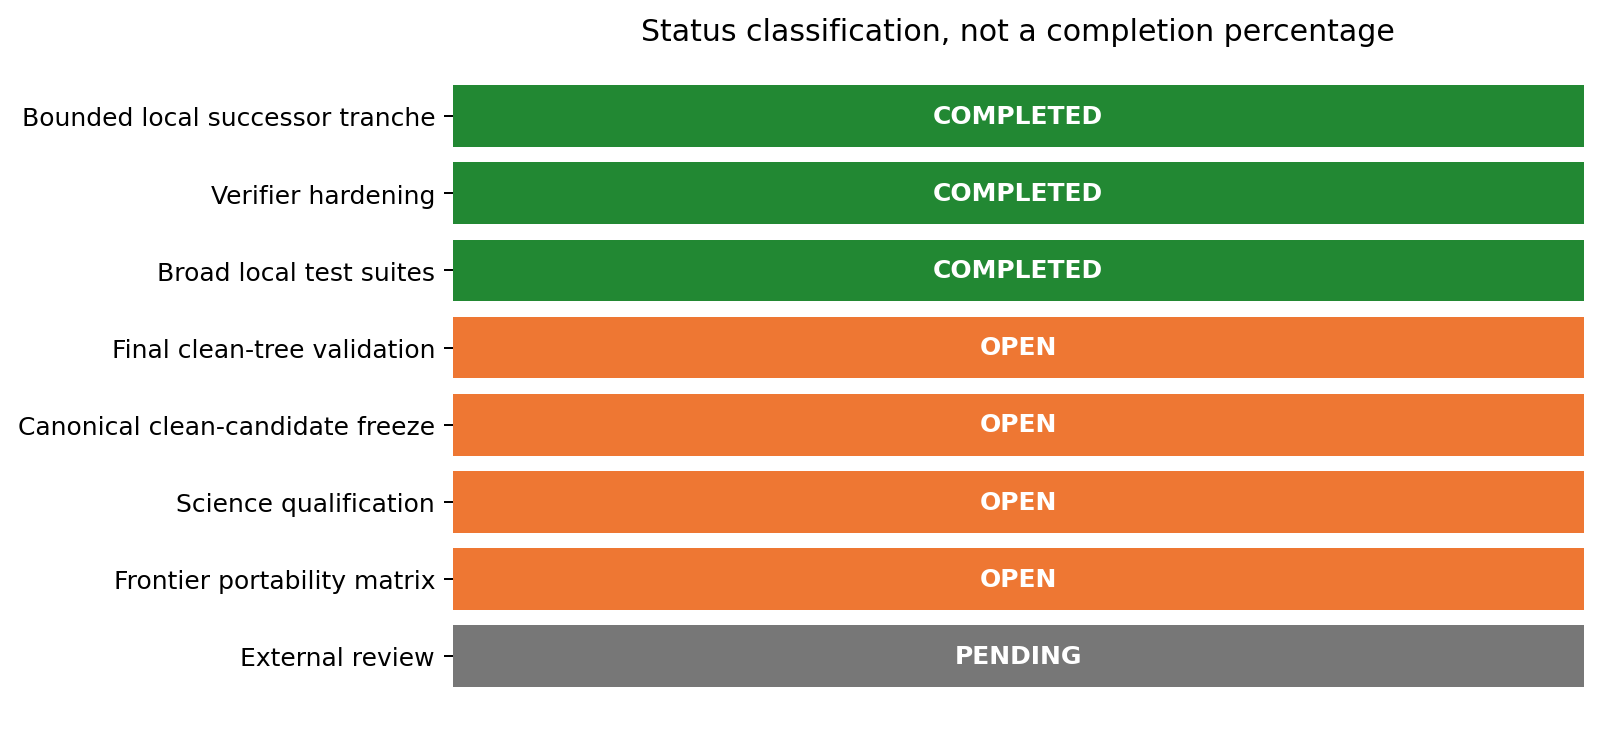
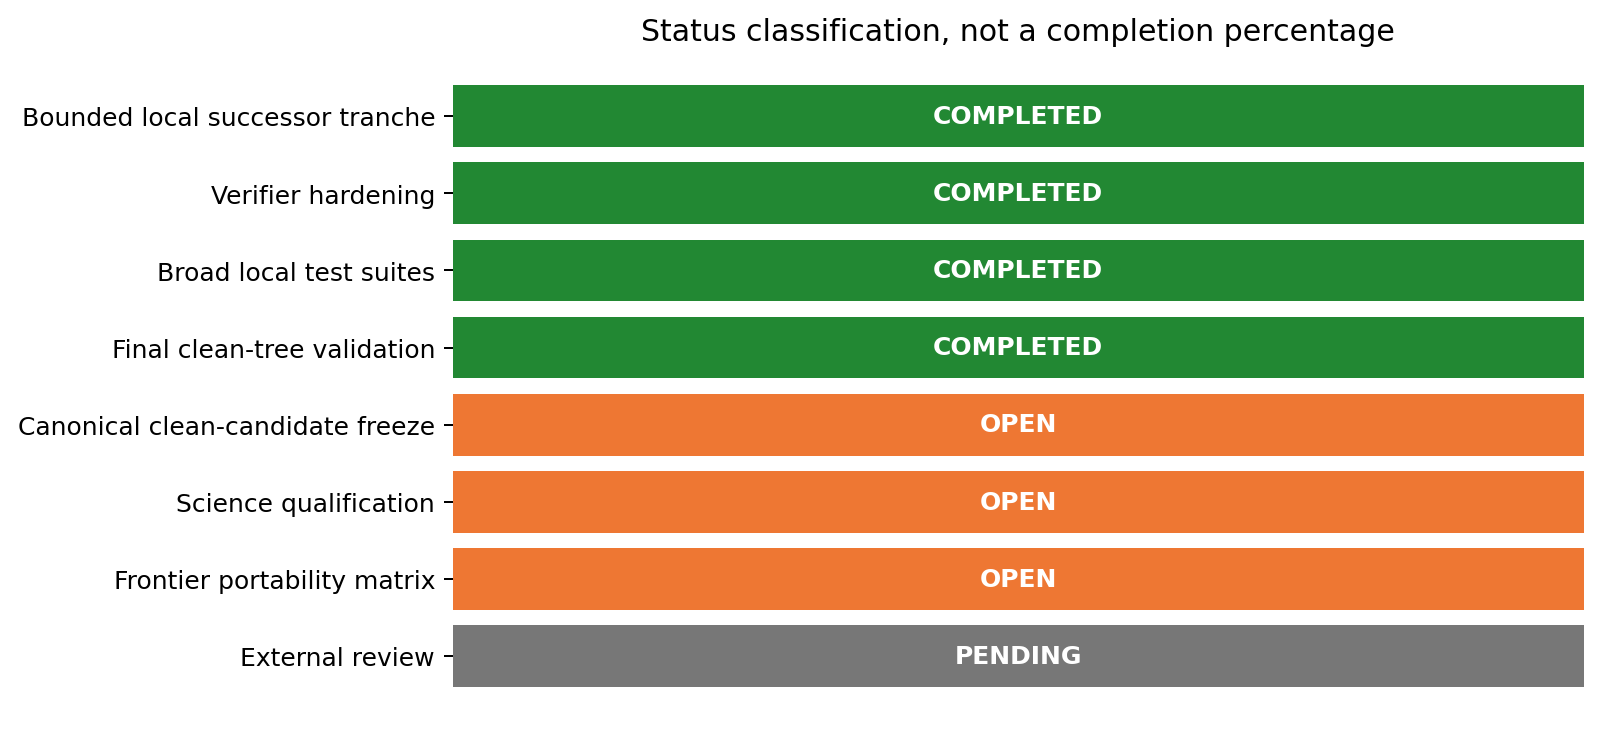
docs(pic): make phase0 validation receipt reproducible

Changed region(s): [[0.2811, 0.419, 0.9994, 0.5388]]

diff --git a/tst/publication/generate_pic_status_update_figures.py b/tst/publication/generate_pic_status_update_figures.py
@@ -315,8 +315,8 @@ def readiness_gate_summary() -> None:
         "Frontier portability matrix",
         "External review",
     ]
-    status = ["completed", "completed", "completed", "open", "open", "open", "open", "pending"]
-    colors = [GREEN, GREEN, GREEN, ORANGE, ORANGE, ORANGE, ORANGE, GRAY]
+    status = ["completed", "completed", "completed", "completed", "open", "open", "open", "pending"]
+    colors = [GREEN, GREEN, GREEN, GREEN, ORANGE, ORANGE, ORANGE, GRAY]
     fig, ax = plt.subplots(figsize=(9, 4.2))
     y = np.arange(len(labels))
     ax.barh(y, np.ones(len(labels)), color=colors)

diff --git a/STATUS_UPDATE.md b/STATUS_UPDATE.md
@@ -4,7 +4,7 @@
 | --- | --- |
 | Date | 2026-05-31 |
 | Repository | AthenaK MHD-PIC worktree at `/ccs/home/dfielding/athenak-pic` |
-| Branch and commit | `PIC` code-and-control snapshot `ec69dd5b6a16f7945d7531f33b3d6a13393243e2`; tracking `origin/PIC`; local branch is 111 commits ahead at that snapshot; this documentation reconciliation follows it |
+| Branch and commits | `PIC` code-and-control snapshot `ec69dd5b6a16f7945d7531f33b3d6a13393243e2` at 111 commits ahead of `origin/PIC`; audited documentation snapshot `717046d1f330a2ee88471669bfc6fc2edfd06f89` at 112 commits ahead; this scoped reproducibility refresh follows it |
 | Agent | Codex |
 | Governing plan | `tst/publication/PIC_PRODUCTION_READINESS_PLAN.md` |
 | Data analyzed | Frozen Q006, Q007, Q008 and Q011 local-readiness artifacts; retained read-only Q023 Bell source-local smoke; authoritative Frontier node-hour ledger |
@@ -53,13 +53,13 @@ The main change relative to the prior state is therefore not “the entire plan 
 
 ![Readiness gate summary](figures/status_update/readiness_gate_summary.png)
 
-*Figure 5. Status classification for the current tranche. The bounded local successor tranche, verifier hardening and broad local test suites are complete. The final clean-tree validation matrix, canonical schema-v4 clean-candidate freeze, science qualification and the broader Frontier portability matrix remain open; external review remains pending. The bars are categorical labels, not completion percentages.*
+*Figure 5. Status classification for the current tranche. The bounded local successor tranche, verifier hardening, broad local test suites and final clean-tree validation matrix are complete. The canonical schema-v4 clean-candidate freeze, science qualification and the broader Frontier portability matrix remain open; external review remains pending. The bars are categorical labels, not completion percentages.*
 
 The strongest statements we can make are local ones: the bounded successors ran, their retained outputs were inventoried, and Q008 shows monotonic three-resolution residual reduction within the tested matrix. The final local test tranches also passed during this work session, although their broad counts are manually curated observations rather than a retained signed test receipt. The report generator itself re-validates the retained trees and mirrored accounting state, re-reads the frozen JSON products, and regenerates the figures.
 
 The largest remaining uncertainty is not a single bug. It is the unclosed transition from bounded local engineering evidence to physical and operational qualification: long-horizon paper campaigns, calibrated extension comparisons, MPI/GPU and multi-node checks, restart and filesystem failure drills on Frontier, scaling and memory measurements, Orion-retention disposition, and named external review.
 
-Source curation was committed through code-and-control snapshot `ec69dd5b6a16f7945d7531f33b3d6a13393243e2`. Independent audits first found a same-account substitution risk in the copied-snapshot handoff and then a topology-map race at the stable handoff boundary. The committed repair keeps verified topology in memory, compares the handed-off topology map back to the verified tree, exposes consumed regular files lazily through sealed Linux `memfd` descriptors, retains one open descriptor across multi-pass archive and ELF validation, and rejects unrelated sealed descriptors outside an active routed snapshot. Q006, Q007 and Q011 retained-artifact replays reproduce their archived results through those sealed members. The report generator applies the same anchored sealed-member rule to frozen JSON inputs and the legacy Q023 Bell payloads. The source-side transition policy now clears inherited schema-v3 science registrations and marks the schema-v4 clean-candidate freeze pending. The canonical schema-v4 source bundle and HIP/MPI executable freeze have not yet been created. The sensible next step is to complete the stable-boundary rereview and final clean validation matrix, install the paired successor control-plane generation, build the canonical HIP/MPI Release executable, and freeze the clean candidate before registering another Frontier slice. The Q006 residual pattern makes AMR/restart parity a priority after that freeze: bind its acceptance threshold before submission and use the slice to test whether decomposition or device execution changes the bounded carrier result. Large paper or extension campaigns should not begin until their campaign-specific registrations, tolerances and independent comparison inputs are frozen.
+Source curation was committed through code-and-control snapshot `ec69dd5b6a16f7945d7531f33b3d6a13393243e2`. Independent audits first found a same-account substitution risk in the copied-snapshot handoff and then a topology-map race at the stable handoff boundary. The committed repair keeps verified topology in memory, compares the handed-off topology map back to the verified tree, exposes consumed regular files lazily through sealed Linux `memfd` descriptors, retains one open descriptor across multi-pass archive and ELF validation, and rejects unrelated sealed descriptors outside an active routed snapshot. Q006, Q007 and Q011 retained-artifact replays reproduce their archived results through those sealed members. The report generator applies the same anchored sealed-member rule to frozen JSON inputs and the legacy Q023 Bell payloads. The source-side transition policy now clears inherited schema-v3 science registrations and marks the schema-v4 clean-candidate freeze pending. The clean-tree validation matrix passed, but the canonical schema-v4 source bundle and HIP/MPI executable freeze have not yet been created. The sensible next step is to complete the stable-boundary rereview, install the paired successor control-plane generation, build the canonical HIP/MPI Release executable, and freeze the clean candidate before registering another Frontier slice. The Q006 residual pattern makes AMR/restart parity a priority after that freeze: bind its acceptance threshold before submission and use the slice to test whether decomposition or device execution changes the bounded carrier result. Large paper or extension campaigns should not begin until their campaign-specific registrations, tolerances and independent comparison inputs are frozen.
 
 # Tier 1: How the analysis works
 
@@ -206,7 +206,7 @@ The current pre-freeze local validation tranche combined broad test suites, focu
 | Frontier control-plane suite | 359 tests passed | Registered-lifecycle and accounting controls passed locally |
 | Focused hardening suite | 96 tests passed | Qualification fixtures, immutable snapshots, analyzer substitution rejection and successor-policy registry checks passed |
 | Sphinx warning-as-error build | Passed | Documentation renders without warning regressions |
-| Readiness JSON parse sweep | 168 filesystem JSON files parsed | Readiness, policy and generated figure-metric sidecars are syntactically valid |
+| Readiness JSON parse sweep | 168 tracked report-scope JSON files parsed | Readiness, policy and generated figure-metric sidecars are syntactically valid |
 | Python AST sweep | 88 publication Python files parsed | Publication Python sources are syntactically valid |
 | `git diff --check` | Passed | No whitespace-error regression in the worktree diff |
 | Touched C++ lint | Passed | Changed-file wrapper passed; the new Q006 C++ source also passed direct lint |
@@ -214,13 +214,13 @@ The current pre-freeze local validation tranche combined broad test suites, focu
 
 ![Validation summary](figures/status_update/validation_summary.png)
 
-*Figure 12. Manually curated summary of passed local check classes in the current pre-freeze hardening tranche. Counts represent different classes and are not additive; parsed-file counts are not test counts. The final clean-tree rerun remains required from the reconciled stable boundary before the canonical freeze. The inherited repository-wide style baseline remains separately open.*
+*Figure 12. Manually curated summary of passed local check classes in the current pre-freeze hardening tranche. Counts represent different classes and are not additive; parsed-file counts are not test counts. The final clean-tree rerun passed before the canonical freeze. The inherited repository-wide style baseline remains separately open.*
 
 ## 1.6 Caveats and next-stage plan
 
 The current evidence is strongest for bounded serial-host mechanics and verifier behavior. It is not yet strong enough for physical paper claims or operational production claims. The immediate next-stage sequence is:
 
-1. Complete the stable-boundary rereview and final clean validation matrix, install the paired reviewed successor control-plane generation and freeze the canonical clean candidate.
+1. Complete the stable-boundary rereview, install the paired reviewed successor control-plane generation and freeze the canonical clean candidate.
 2. Close prerequisite-complete registered Frontier MPI/HIP slices one at a time under the existing ledger policy after the freeze.
 3. Add runtime, memory, sorting, deposition, coupling, communication and load-balance telemetry before scaling studies.
 4. Freeze external-reference mappings and tolerances before physical comparison campaigns.
@@ -479,7 +479,7 @@ The Q006, Q007, Q008 and Q011 evidence and the Q023 Bell smoke reported here are
 | Frontier control-plane suite | Exercise registered lifecycle, immutable promotion and ledger controls | Python unit discovery under `tst/publication/frontier_control_plane` | 359 passed | No failures | Pass |
 | Hardening focus | Stress candidate closure, descriptor snapshots and registry lifecycle | Focused publication tests | 96 passed | No failures | Pass |
 | Documentation | Detect warning regressions | Sphinx HTML build with `-W --keep-going -E` | Passed | No Sphinx warnings | Pass |
-| Readiness JSON syntax | Detect malformed readiness records | Parse readiness, policy and generated figure-metric JSON files | 168 parsed | No parse errors | Pass |
+| Readiness JSON syntax | Detect malformed readiness records | Parse tracked readiness, policy and generated figure-metric JSON files | 168 parsed | No parse errors | Pass |
 | Python syntax | Detect malformed publication Python sources | AST parse sweep | 88 parsed | No syntax errors | Pass |
 | Diff whitespace | Detect whitespace regressions | `git diff --check` | Clean | No findings | Pass |
 | Targeted C++ lint | Check touched C++ files | Changed-file wrapper plus direct lint of the new Q006 source | Passed | No touched-file findings | Pass |
@@ -595,7 +595,7 @@ The repository-wide C++ style baseline remains open. A fresh wrapper-equivalent 
 
 ## 2.9 Recommended next steps
 
-1. **Immediate:** complete the stable-boundary rereview and final clean validation matrix, install the paired reviewed successor control-plane generation, build the canonical HIP/MPI Release executable and freeze the clean candidate.
+1. **Immediate:** complete the stable-boundary rereview, install the paired reviewed successor control-plane generation, build the canonical HIP/MPI Release executable and freeze the clean candidate.
 2. **Validation:** run the next prerequisite-complete registered Frontier MPI/HIP slice under the serialized scheduler policy and reconcile the ledger immediately.
 3. **Production preparation:** add runtime and memory telemetry for pusher, deposition, coupling, communication, sorting, AMR, load balance, output and restart paths.
 4. **Scientific qualification:** freeze comparison mappings, extracted reference data, tolerances, fit windows, seeds and uncertainty methods before launching physical Hall Bell, damped-CRSI or adaptive-delta-f CRPAI campaigns. Require same-run particle distribution, current and field snapshots for Bell visualization.
@@ -610,21 +610,23 @@ The repository-wide C++ style baseline remains open. A fresh wrapper-equivalent 
 | Repository path | `/ccs/home/dfielding/athenak-pic` |
 | Resolved path in this environment | `/autofs/nccs-svm1_home2/dfielding/athenak-pic` |
 | Branch | `PIC` |
-| HEAD | Code-and-control snapshot `ec69dd5b6a16f7945d7531f33b3d6a13393243e2`; this documentation reconciliation follows it |
+| Code-and-control snapshot | `ec69dd5b6a16f7945d7531f33b3d6a13393243e2` |
+| Audited documentation snapshot | `717046d1f330a2ee88471669bfc6fc2edfd06f89`; this scoped reproducibility refresh follows it |
+| Current HEAD | Resolve with `git rev-parse HEAD` before installation |
 | Upstream | `origin/PIC` |
-| Ahead/behind | 111 ahead, 0 behind at the code-and-control snapshot |
-| Worktree | Expected clean after this documentation reconciliation commit; verify with `git status --short --branch` before installation |
+| Ahead/behind | Code-and-control snapshot: 111 ahead, 0 behind; audited documentation snapshot: 112 ahead, 0 behind |
+| Worktree | Expected clean after this scoped reproducibility refresh; verify with `git status --short --branch` before installation |
 | Deleted files | None observed |
 | New report | `STATUS_UPDATE.md` |
 | New figure generator | `tst/publication/generate_pic_status_update_figures.py` |
 | New figure directory | `figures/status_update/` |
 
-The code-and-control repair is committed. This documentation reconciliation,
-the stable-boundary rereview and the final clean validation matrix remain
-required before installation. Do not treat the curated commit series as a
-frozen release baseline until the canonical clean-candidate operation archives
-the source bundle and HIP/MPI executable together. Inspect the current list
-with:
+The code-and-control repair and documentation reconciliation are committed.
+The scoped reproducibility refresh records a deterministic tracked-JSON sweep.
+Stable-boundary rereview remains required before installation. Do not treat the
+curated commit series as a frozen release baseline until the canonical
+clean-candidate operation archives the source bundle and HIP/MPI executable
+together. Inspect the current list with:
 
 ```bash
 git status --short --branch
@@ -635,7 +637,7 @@ git status --short --branch
 | Boundary | Current value | Status |
 | --- | --- | --- |
[4 lines of base64/hex data omitted]
 | Canonical schema-v4 freeze | Not yet created | Open Phase 0 gate |
 
@@ -753,13 +755,20 @@ python3 -m venv /tmp/athenak-pic-docs-venv
 git diff --check
 ```
 
-Parse the exact filesystem JSON scope, including the two `tst/.codex` Bell-materialization files and generated report metrics:
+Parse the exact tracked report JSON scope. This intentionally excludes ignored
+runtime residue under `tst/.codex` and `tst/build`:
 
 ```bash
 python3 - <<'PY'
 import json
+import subprocess
 from pathlib import Path
-paths = sorted({*Path("tst").rglob("*.json"), *Path("figures").rglob("*.json")})
+paths = [
+    Path(path)
+    for path in subprocess.check_output(["git", "ls-files"], text=True).splitlines()
+    if path.endswith(".json")
+    and path.startswith(("tst/publication/", "figures/status_update/"))
+]
 for path in paths:
     json.loads(path.read_text(encoding="utf-8"))
 print(len(paths))

diff --git a/tst/publication/PIC_SUN_BAI_RELEASE_PHASED_WORK_PLAN.md b/tst/publication/PIC_SUN_BAI_RELEASE_PHASED_WORK_PLAN.md
@@ -209,9 +209,9 @@ historical registered-science slices and marks the schema-v4 clean-candidate
 freeze pending. The nonqualifying transition record is
 [`phase0_curated_candidate_successor_2026-05-31.json`](readiness/phase0_curated_candidate_successor_2026-05-31.json).
 
-Phase 0 remains open until the stable final diff is independently rereviewed,
-committed, validated from a clean worktree, installed as a paired Orion and
-Project Home control-plane generation, and frozen with its final source,
+The clean-tree Phase 0 validation matrix now passes. Phase 0 remains open until
+the stable final diff is independently rereviewed, installed as a paired Orion
+and Project Home control-plane generation, and frozen with its final source,
 executable, deck, and analyzer checksums. No later phase is authorized yet.
[1 lines of base64/hex data omitted]
 control-plane generation is chronology-only: do not launch any new Frontier
@@ -634,9 +634,9 @@ unless all required bindings and products are present.
 
 Execute these actions in order:
 
-1. Complete the stable-boundary rereview and final clean Phase 0 matrix,
-   install the paired successor control plane, build the canonical HIP/MPI
-   Release executable, and freeze the clean release candidate.
+1. Complete the stable-boundary rereview, install the paired successor control
+   plane, build the canonical HIP/MPI Release executable, and freeze the clean
+   release candidate.
 2. Close the Section 5.4 normalization, macro-particle-mass, gas-subtraction,
    spectrum-window, snapshot-tolerance, and AMR-residual reviews.
 3. Create and freeze the qualifying Section 5.4 analyzer.
